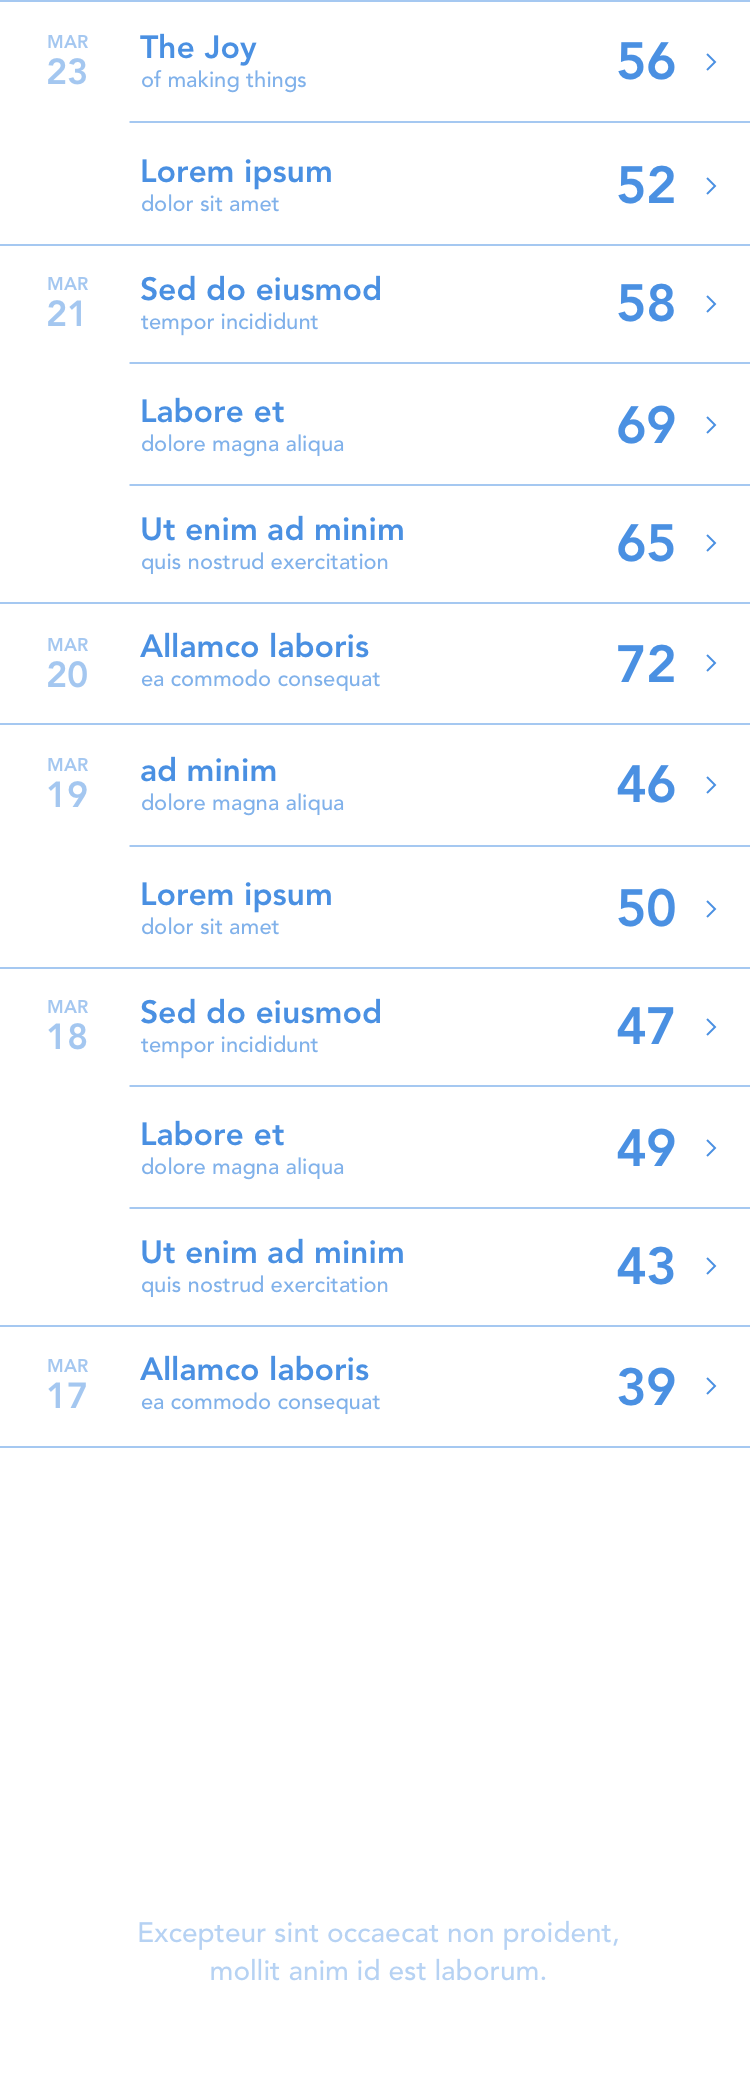
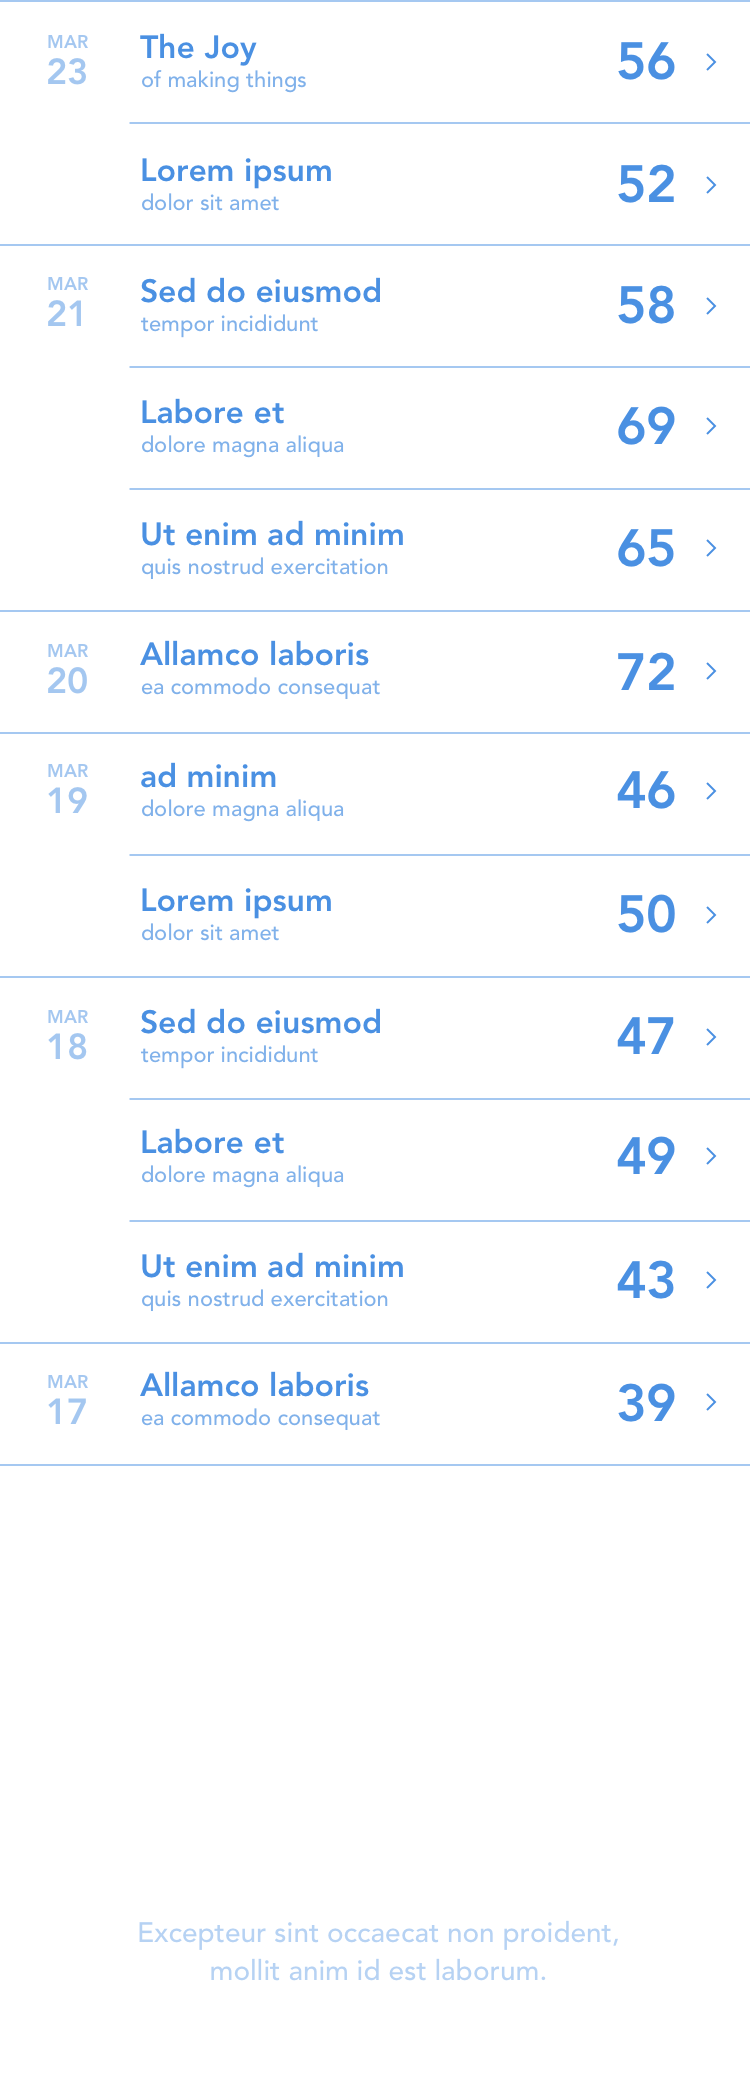
add scroll AnimationEnd event, modify sketch file (distance of dividers)

diff --git a/framer/framer.generated.js b/framer/framer.generated.js
@@ -21,7 +21,7 @@ window.__imported__["linked_timeline@1x/layers.json.js"] = [
 		"backgroundColor": "rgba(255, 255, 255, 1)",
 		"children": [
 			{
-				"objectId": "49A1FD18-E2ED-42E3-ADBA-C6B64244A319",
+				"objectId": "4E658966-AB77-450C-85A2-D6179624EF0F",
 				"kind": "group",
 				"name": "list_white",
 				"originalName": "list_white",
@@ -30,19 +30,19 @@ window.__imported__["linked_timeline@1x/layers.json.js"] = [
 					"x": -1,
 					"y": 0,
 					"width": 757,
-					"height": 1448
+					"height": 1466
 				},
 				"visible": true,
 				"metadata": {
 					"opacity": 1
 				},
 				"image": {
-					"path": "images/Layer-list_white-ndlbmuze.png",
+					"path": "images/Layer-list_white-neu2ntg5.png",
 					"frame": {
 						"x": -1,
 						"y": 0,
 						"width": 757,
-						"height": 1448
+						"height": 1466
 					}
 				},
 				"children": []
@@ -59,7 +59,7 @@ window.__imported__["linked_timeline@1x/layers.json.js"] = [
 			"x": 1780,
 			"y": 2505,
 			"width": 750,
-			"height": 2075
+			"height": 2095
 		},
 		"visible": true,
 		"metadata": {},
@@ -70,7 +70,7 @@ window.__imported__["linked_timeline@1x/layers.json.js"] = [
 				"x": 1780,
 				"y": 2505,
 				"width": 750,
-				"height": 2075
+				"height": 2095
 			}
 		},
 		"children": [

diff --git a/imported/linked_timeline@1x/layers.json.js b/imported/linked_timeline@1x/layers.json.js
@@ -17,7 +17,7 @@ window.__imported__["linked_timeline@1x/layers.json.js"] = [
 		"backgroundColor": "rgba(255, 255, 255, 1)",
 		"children": [
 			{
-				"objectId": "49A1FD18-E2ED-42E3-ADBA-C6B64244A319",
+				"objectId": "4E658966-AB77-450C-85A2-D6179624EF0F",
 				"kind": "group",
 				"name": "list_white",
 				"originalName": "list_white",
@@ -26,19 +26,19 @@ window.__imported__["linked_timeline@1x/layers.json.js"] = [
 					"x": -1,
 					"y": 0,
 					"width": 757,
-					"height": 1448
+					"height": 1466
 				},
 				"visible": true,
 				"metadata": {
 					"opacity": 1
 				},
 				"image": {
-					"path": "images/Layer-list_white-ndlbmuze.png",
+					"path": "images/Layer-list_white-neu2ntg5.png",
 					"frame": {
 						"x": -1,
 						"y": 0,
 						"width": 757,
-						"height": 1448
+						"height": 1466
 					}
 				},
 				"children": []
@@ -55,7 +55,7 @@ window.__imported__["linked_timeline@1x/layers.json.js"] = [
 			"x": 1780,
 			"y": 2505,
 			"width": 750,
-			"height": 2075
+			"height": 2095
 		},
 		"visible": true,
 		"metadata": {},
@@ -66,7 +66,7 @@ window.__imported__["linked_timeline@1x/layers.json.js"] = [
 				"x": 1780,
 				"y": 2505,
 				"width": 750,
-				"height": 2075
+				"height": 2095
 			}
 		},
 		"children": [
